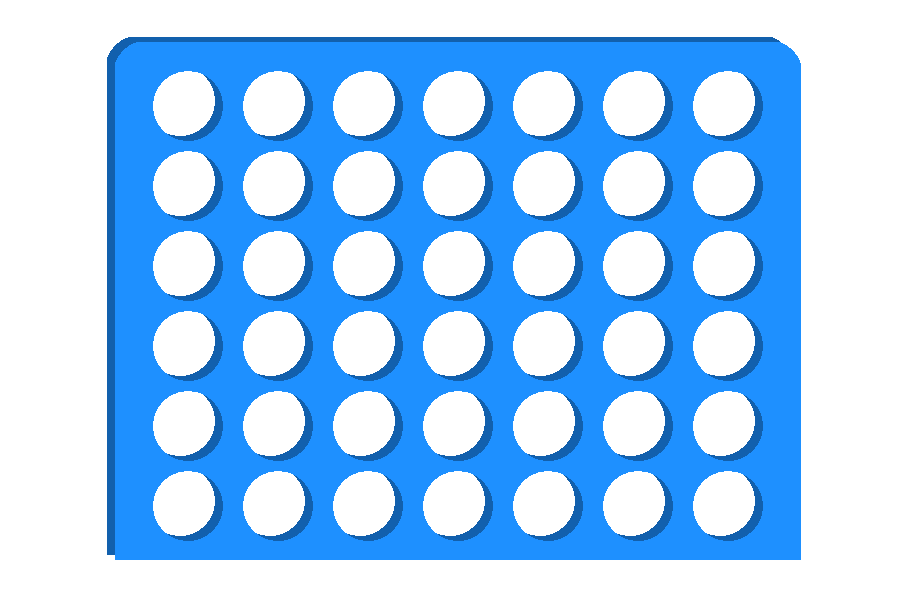
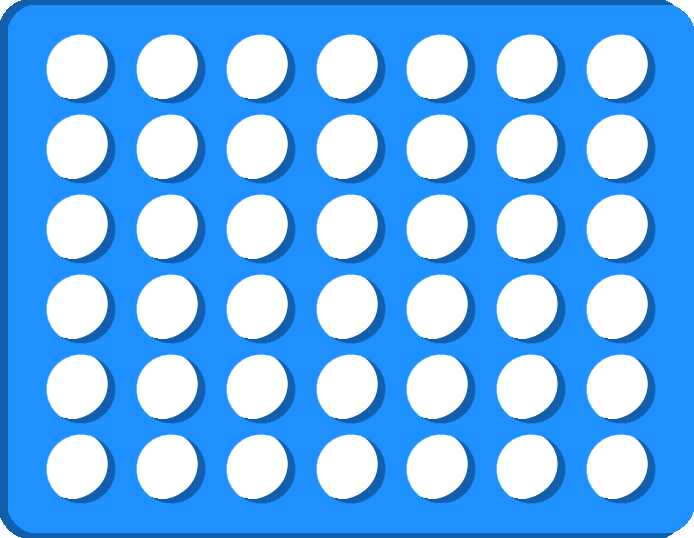
Board fixed, Player one follows mouse

diff --git a/FinalProjectShell/PlayerOne.cs b/FinalProjectShell/PlayerOne.cs
@@ -13,12 +13,38 @@ namespace FinalProject
 {
     class PlayerOne : DrawableGameComponent
     {
-        Texture2D Image { get; }
-        Vector2 positionX;
-        Vector2 positionY;
+        Texture2D texture;
+        Vector2 position;
         
         public PlayerOne(Game game) : base(game)
         {
+        }
+
+        public PlayerOne(Microsoft.Xna.Framework.Game game) : base(game)
+        {
+        }
+
+        protected override void LoadContent()
+        {
+            texture = Game.Content.Load<Texture2D>(@"Images\Assets\Red");
+            base.LoadContent();
+        }
+
+        public override void Update(GameTime gameTime)
+        {
+            MouseState ms = Mouse.GetState();
+            position = new Vector2(ms.X - texture.Width/2, 10);
+            position.X = MathHelper.Clamp(position.X, 40, GraphicsDevice.Viewport.Width - texture.Width - 40);
+            base.Update(gameTime);
+        }
+
+        public override void Draw(GameTime gameTime)
+        {
+            SpriteBatch sb = Game.Services.GetService<SpriteBatch>();
+            sb.Begin();
+            sb.Draw(texture, position, Microsoft.Xna.Framework.Color.White);
+            sb.End();
+            base.Draw(gameTime);
         }
     }
 }

diff --git a/FinalProjectShell/Board.cs b/FinalProjectShell/Board.cs
@@ -16,7 +16,7 @@ namespace FinalProject
         {
         }
 
-        Vector2 BoardPosition { get; }
+        Vector2 boardPosition;
 
 
 
@@ -25,6 +25,27 @@ namespace FinalProject
             boardTexture = Game.Content.Load<Texture2D>(@"Images\Assets\Board_Full");
 
             base.LoadContent();
+        }
+
+        public override void Update(GameTime gameTime)
+        {
+            boardPosition = new Vector2(0, 100);
+
+            MouseState ms = Mouse.GetState();
+            if (ms.LeftButton == ButtonState.Pressed)
+            {
+                ClickController.Clicked(ms);
+            }
+            base.Update(gameTime);
+        }
+
+        public override void Draw(GameTime gameTime)
+        {
+            SpriteBatch sb = Game.Services.GetService<SpriteBatch>();
+            sb.Begin();
+            sb.Draw(boardTexture, boardPosition, Microsoft.Xna.Framework.Color.White);
+            sb.End();
+            base.Draw(gameTime);
         }
     }
 }

diff --git a/FinalProjectShell/GameComponents/MenuComponent.cs b/FinalProjectShell/GameComponents/MenuComponent.cs
@@ -113,6 +113,8 @@ namespace FinalProject
         {
             SpriteBatch sb = Game.Services.GetService<SpriteBatch>();
 
+            startingPosition = new Vector2(GraphicsDevice.Viewport.Width / 2 - regularFont.MeasureString("Start Game\nHelp\nHigh Score\nCredits\nQuit").X / 2,
+                                      GraphicsDevice.Viewport.Height / 2 - regularFont.MeasureString("Start Game\nHelp\nHigh Score\nCredits\nQuit").Y / 2);
             Vector2 nextPosition = startingPosition;
 
             sb.Begin();
@@ -144,9 +146,7 @@ namespace FinalProject
         public override void Initialize()
         {
             // starting position of the menu items - but you can decise to put it elsewhere
-            startingPosition = new Vector2(GraphicsDevice.Viewport.Width / 3 * 1.3f,
-                                      GraphicsDevice.Viewport.Height / 3);
-
+            
             base.Initialize();
         }
 

diff --git a/FinalProjectShell/ClickController.cs b/FinalProjectShell/ClickController.cs
@@ -1,0 +1,25 @@
+using System;
+using System.Drawing;
+using System.Linq;
+using System.Text;
+using System.Threading.Tasks;
+using Microsoft.Xna.Framework;
+using Microsoft.Xna.Framework.Graphics;
+using Microsoft.Xna.Framework.Input;
+
+namespace FinalProject
+{
+    class ClickController : GameComponent
+    {
+        MouseState ms;
+
+        public ClickController(Microsoft.Xna.Framework.Game game) : base(game)
+        {
+        }
+        internal static void Clicked(MouseState ms)
+        {
+            Console.WriteLine(ms.X);
+
+        }
+    }
+}

diff --git a/FinalProjectShell/Scenes/GameScene.cs b/FinalProjectShell/Scenes/GameScene.cs
@@ -31,12 +31,11 @@ namespace FinalProject
 
         public GameScene(Microsoft.Xna.Framework.Game game) : base(game)
         {
-            sceneComponents = new List<GameComponent>();           
+            sceneComponents = new List<GameComponent>();
         }
 
         public override void Initialize()
         {
-            this.AddComponent(new Board(Game));
             base.Initialize();
         }
 

diff --git a/FinalProjectShell/Game.cs b/FinalProjectShell/Game.cs
@@ -16,8 +16,10 @@ namespace FinalProject
         public Game()
         {
             graphics = new GraphicsDeviceManager(this);
+            graphics.PreferredBackBufferWidth = 694;
+            graphics.PreferredBackBufferHeight = 640;
             Content.RootDirectory = "Content";
-            IsMouseVisible = true;
+            IsMouseVisible = false;
         }
 
         /// <summary>

diff --git a/FinalProjectShell/Scenes/ActionScene.cs b/FinalProjectShell/Scenes/ActionScene.cs
@@ -19,6 +19,9 @@ namespace FinalProject
             // game as well as keeping track of what belongs to it.
 
 
+            this.AddComponent(new Board(Game));
+            this.AddComponent(new PlayerOne(Game));
+            this.AddComponent(new ClickController(Game));
 
             base.Initialize();
         }
